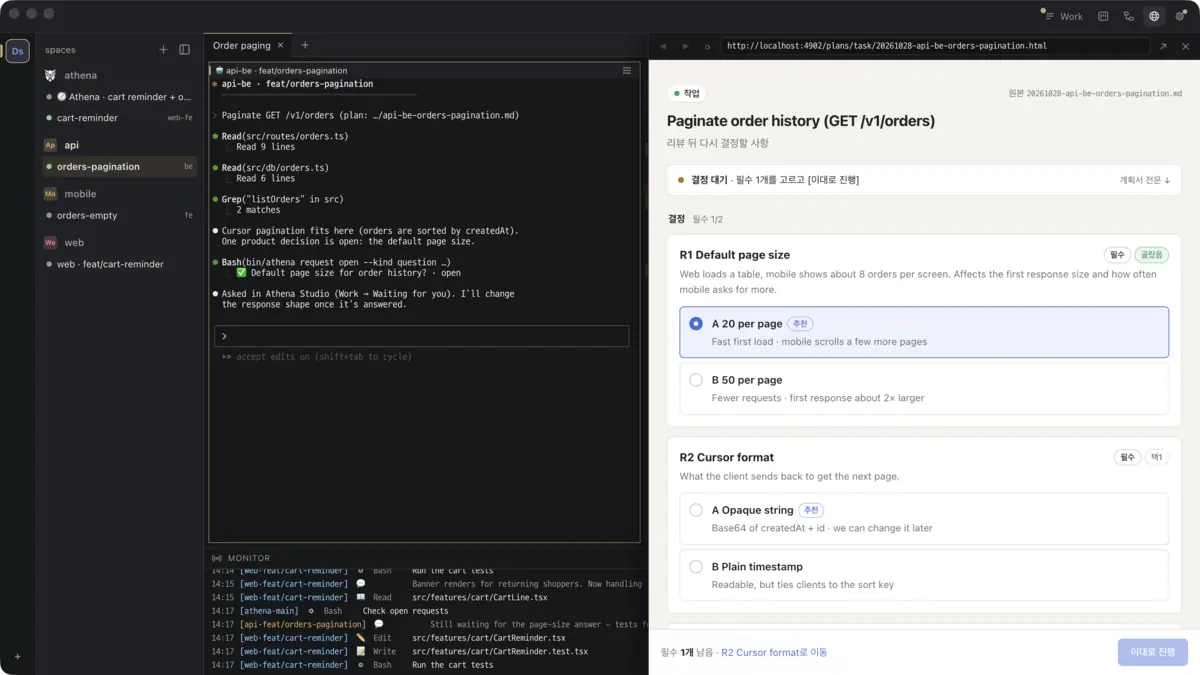
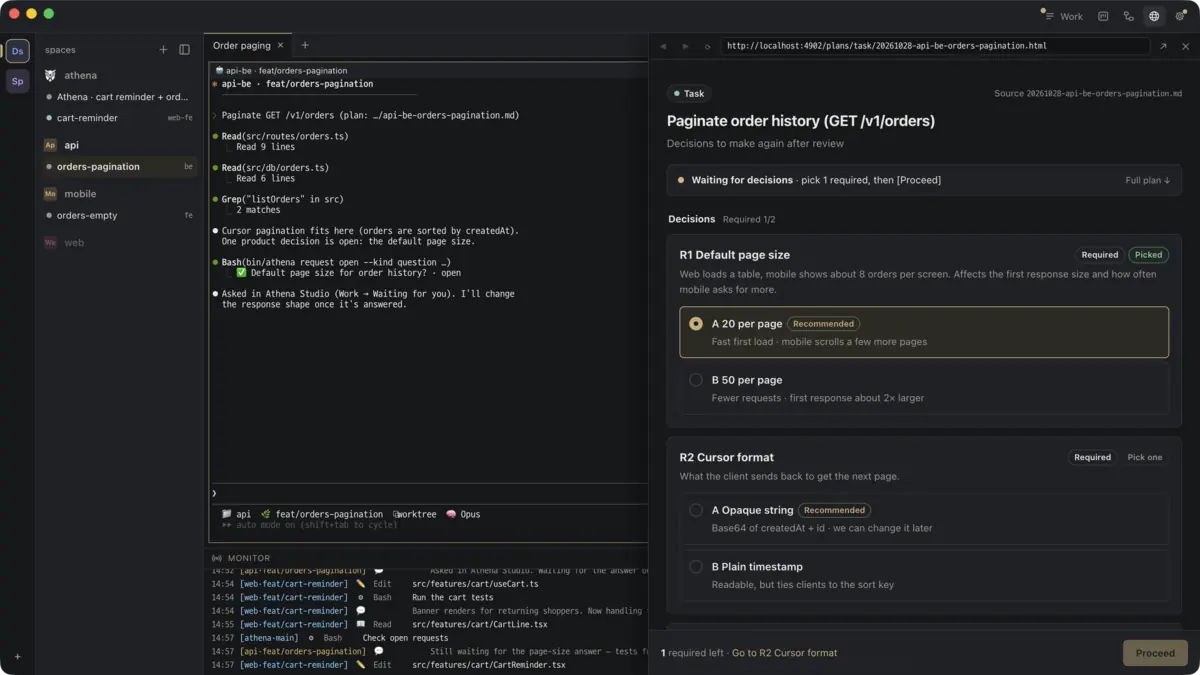
athena: 기능 페이지 결정 콘솔 · 메뉴 막대 화면을 최종본으로 (08 · 06 다시 찍은 판)
- browser.webp · browser-1200.webp ← 08-browser.png(다크 · 영어 · 새 입력창)
- menubar.webp ← 06-menubar.png(사용량까지 영어) — 이제 패널 전체를 보여 줌, #menubar 는 페이드 없이
- 맥 capd 로 #console · #menubar · #decide 확인

diff --git a/athena/features/index.html b/athena/features/index.html
@@ -115,7 +115,7 @@
         </div>
         <div class="pair">
           <figure class="shot sm"><img src="/assets/shots/answer-modal.webp" width="958" height="774" loading="lazy" alt="A question from the api agent: default page size for order history, 20 (recommended) or 50, with a Send answer button." data-ta="alt:h.b3.alt1"></figure>
-          <figure class="shot sm fade-b"><img src="/assets/shots/menubar.webp" width="704" height="588" loading="lazy" alt="Menu bar panel: one item needs attention, and each agent with its branch and status." data-ta="alt:h.b3.alt2"></figure>
+          <figure class="shot sm fade-b" style="max-height:470px"><img src="/assets/shots/menubar.webp" width="690" height="1062" loading="lazy" alt="Menu bar panel: one item needs attention, and each agent with its branch and status." data-ta="alt:h.b3.alt2"></figure>
         </div>
       </div>
 
@@ -311,7 +311,7 @@
           <li data-t="f.mb.l4">Notifications only for things you need to answer, with a pause button</li>
         </ul>
       </div>
-      <figure class="shot sm narrow fade-b"><img src="/assets/shots/menubar.webp" width="704" height="588" loading="lazy" alt="Menu bar panel: one item needs attention, and each agent with its branch and status." data-ta="alt:h.b3.alt2"></figure>
+      <figure class="shot sm narrow"><img src="/assets/shots/menubar.webp" width="690" height="1062" loading="lazy" alt="Menu bar panel: one item needs attention, and each agent with its branch and status." data-ta="alt:h.b3.alt2"></figure>
     </div>
   </div>
 </section>
